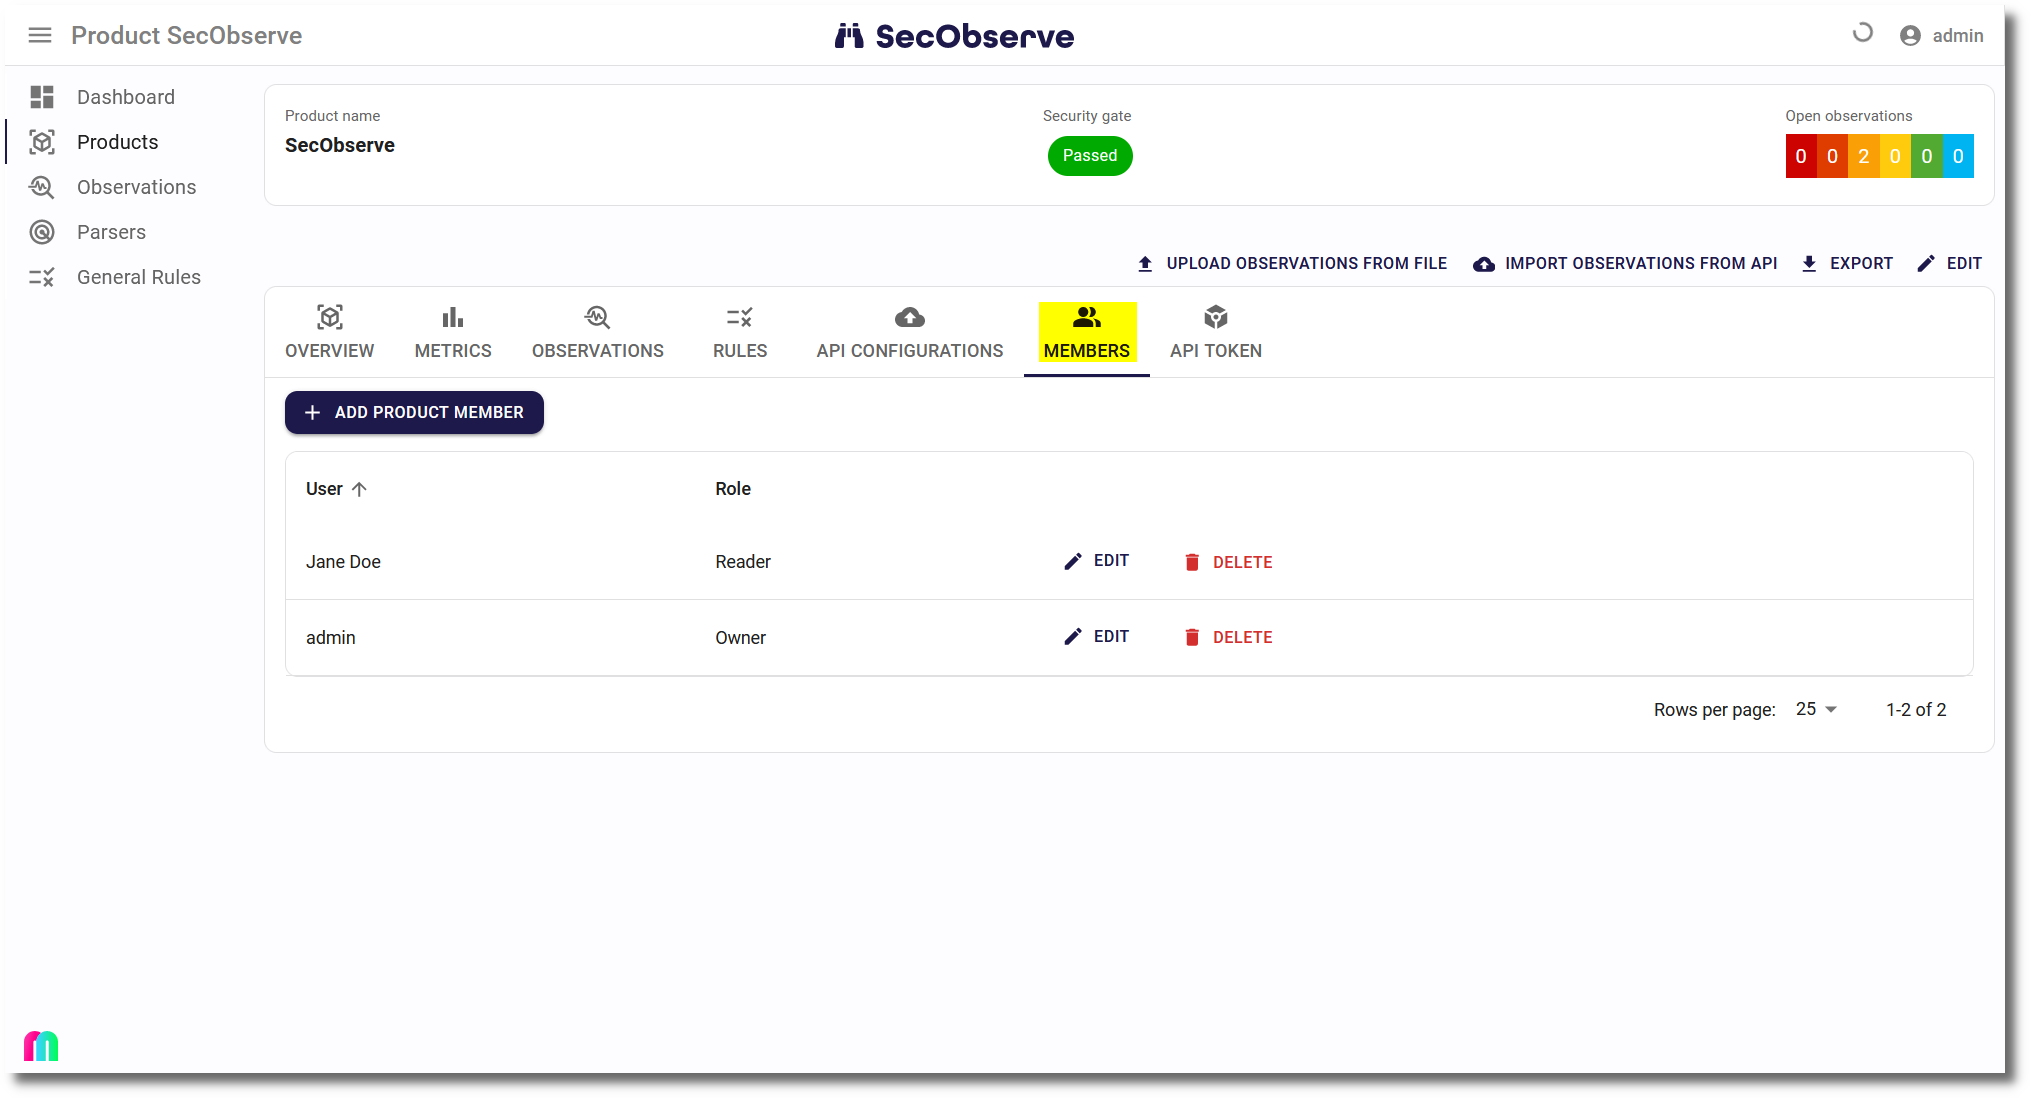
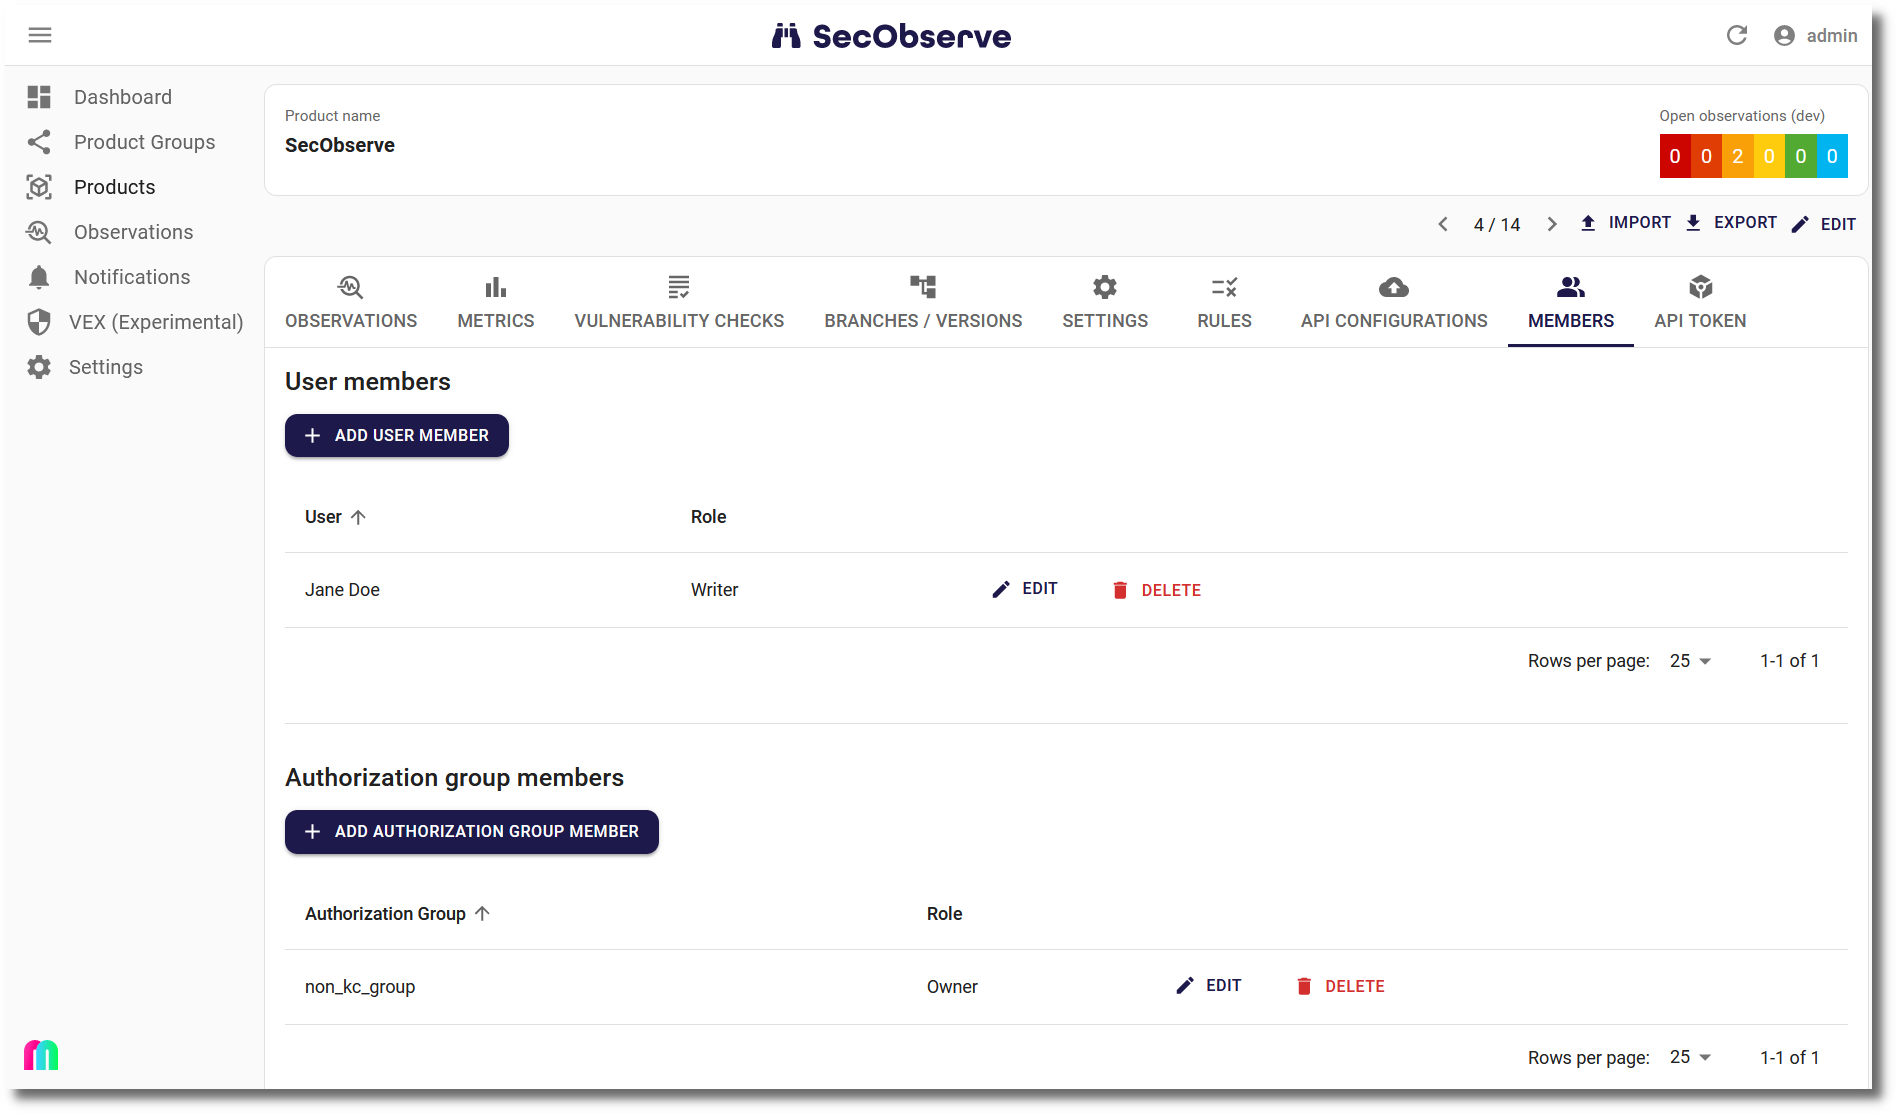
chore: documentation

diff --git a/docs/usage/users_permissions.md b/docs/usage/users_permissions.md
@@ -40,7 +40,7 @@ Authorization groups can be used to manage permissions for multiple users at onc
 
 Currently authorization groups can only be managed by superusers using the [Django Admin user interface](../getting_started/configuration.md#admin-user-interface):
 
-*placeholder for screenshot*
+![Authorization Groups](../assets/images/screenshot_authorization_groups.png)
 
 Authorization groups can be mapped to OIDC group claims. If the OICD token includes a group claim (see [OpenID Connect authentication](../integrations/oidc_authentication.md)), the user will be automatically added to the authorization group, where an entry of the group claim matches the attribute `oidc_group`. If the users will be removed from the group in the user directory, the user will be removed from the authorization group automatically as well.
 

diff --git a/docs/getting_started/features.md b/docs/getting_started/features.md
@@ -37,6 +37,7 @@
 | [Built-in user management](../usage/users_permissions.md#users) | :material-plus-circle-outline: |
 | [OpenID Connect integration](../integrations/oidc_authentication.md) | :material-plus-circle-outline: |
 | [Internal, external and admin users](../usage/users_permissions.md#user-types) | :material-plus-circle-outline: |
+| [Authorization groups](../usage/users_permissions.md#authorization-groups) | :material-plus-circle-outline: |
 | [Role-based access control](../usage/users_permissions.md#roles-and-permissions) | :material-plus-circle-outline: |
 
 ## Installation and Upgrading
